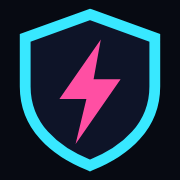
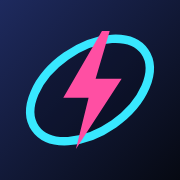
v38 : nouvelle icône de l'appli (ballon éclair sur fond nuit), choisie par Nicolas
- icons/icone-source.svg : la source (512 × 512, fond nuit en léger dégradé, ballon cyan, éclair rose) ;
  icon-512, icon-192 et apple-touch-icon refaits à partir d'elle ; favicon.svg aux coins arrondis.
- Le motif tient dans la zone sûre des icônes « maskable » (Android).
- Site en ?v=38.

Claude-Session: https://claude.ai/code/session_017Gi2JgYqrarUoQ8FJsJkeS

diff --git a/index.html b/index.html
@@ -60,7 +60,7 @@ html,body{background:#070A12;color:#EAF0FF;margin:0}
 .boot button small{display:block;margin-top:5px;font:500 12px/1.2 system-ui,-apple-system,sans-serif;letter-spacing:0;text-transform:none;color:#AEB9D6}
 .boot code{font-size:12px;color:#7D89A8;word-break:break-all}
 </style>
-<link rel="stylesheet" href="css/style.css?v=37">
+<link rel="stylesheet" href="css/style.css?v=38">
 </head>
 <body>
 <div class="bgfx" aria-hidden="true"></div>
@@ -95,41 +95,41 @@ html,body{background:#070A12;color:#EAF0FF;margin:0}
 <nav class="nav" id="nav" aria-label="Navigation principale" hidden></nav>
 <div class="toast" id="toast" role="status" aria-live="polite"></div>
 <noscript><p style="padding:20px;color:#fff">Ce site a besoin de JavaScript.</p></noscript>
-<script src="js/config.js?v=37"></script>
-<script src="js/content.js?v=37"></script>
-<script src="js/postes-data.js?v=37"></script>
-<script src="js/fiches.js?v=37"></script>
-<script src="js/core.js?v=37"></script>
-<script src="js/logic.js?v=37"></script>
-<script src="js/missions.js?v=37"></script>
-<script src="js/competences.js?v=37"></script>
-<script src="js/notifs.js?v=37"></script>
-<script src="js/skills-icones.js?v=37"></script>
-<script src="js/compos.js?v=37"></script>
-<script src="js/demo.js?v=37"></script>
-<script src="js/api.js?v=37"></script>
-<script src="js/ui.js?v=37"></script>
-<script src="js/anims.js?v=37"></script>
-<script src="js/app.js?v=37"></script>
-<script src="js/routine.js?v=37"></script>
-<script src="js/suivi.js?v=37"></script>
-<script src="js/v-login.js?v=37"></script>
-<script src="js/v-kid.js?v=37"></script>
-<script src="js/v-seance.js?v=37"></script>
-<script src="js/v-profil.js?v=37"></script>
-<script src="js/v-bilan.js?v=37"></script>
-<script src="js/v-guide.js?v=37"></script>
-<script src="js/v-adult.js?v=37"></script>
-<script src="js/v-mission.js?v=37"></script>
-<script src="js/v-missions.js?v=37"></script>
-<script src="js/v-booster.js?v=37"></script>
-<script src="js/v-compos.js?v=37"></script>
-<script src="js/v-educ.js?v=37"></script>
-<script src="js/bravos.js?v=37"></script>
-<script src="js/v-notifs.js?v=37"></script>
-<script src="js/alertes.js?v=37"></script>
-<script src="js/accueil.js?v=37"></script>
-<script src="js/nouveautes.js?v=37"></script>
+<script src="js/config.js?v=38"></script>
+<script src="js/content.js?v=38"></script>
+<script src="js/postes-data.js?v=38"></script>
+<script src="js/fiches.js?v=38"></script>
+<script src="js/core.js?v=38"></script>
+<script src="js/logic.js?v=38"></script>
+<script src="js/missions.js?v=38"></script>
+<script src="js/competences.js?v=38"></script>
+<script src="js/notifs.js?v=38"></script>
+<script src="js/skills-icones.js?v=38"></script>
+<script src="js/compos.js?v=38"></script>
+<script src="js/demo.js?v=38"></script>
+<script src="js/api.js?v=38"></script>
+<script src="js/ui.js?v=38"></script>
+<script src="js/anims.js?v=38"></script>
+<script src="js/app.js?v=38"></script>
+<script src="js/routine.js?v=38"></script>
+<script src="js/suivi.js?v=38"></script>
+<script src="js/v-login.js?v=38"></script>
+<script src="js/v-kid.js?v=38"></script>
+<script src="js/v-seance.js?v=38"></script>
+<script src="js/v-profil.js?v=38"></script>
+<script src="js/v-bilan.js?v=38"></script>
+<script src="js/v-guide.js?v=38"></script>
+<script src="js/v-adult.js?v=38"></script>
+<script src="js/v-mission.js?v=38"></script>
+<script src="js/v-missions.js?v=38"></script>
+<script src="js/v-booster.js?v=38"></script>
+<script src="js/v-compos.js?v=38"></script>
+<script src="js/v-educ.js?v=38"></script>
+<script src="js/bravos.js?v=38"></script>
+<script src="js/v-notifs.js?v=38"></script>
+<script src="js/alertes.js?v=38"></script>
+<script src="js/accueil.js?v=38"></script>
+<script src="js/nouveautes.js?v=38"></script>
 <script>if (!window.__mcResetting) MC.app.start();</script>
 </body>
 </html>
